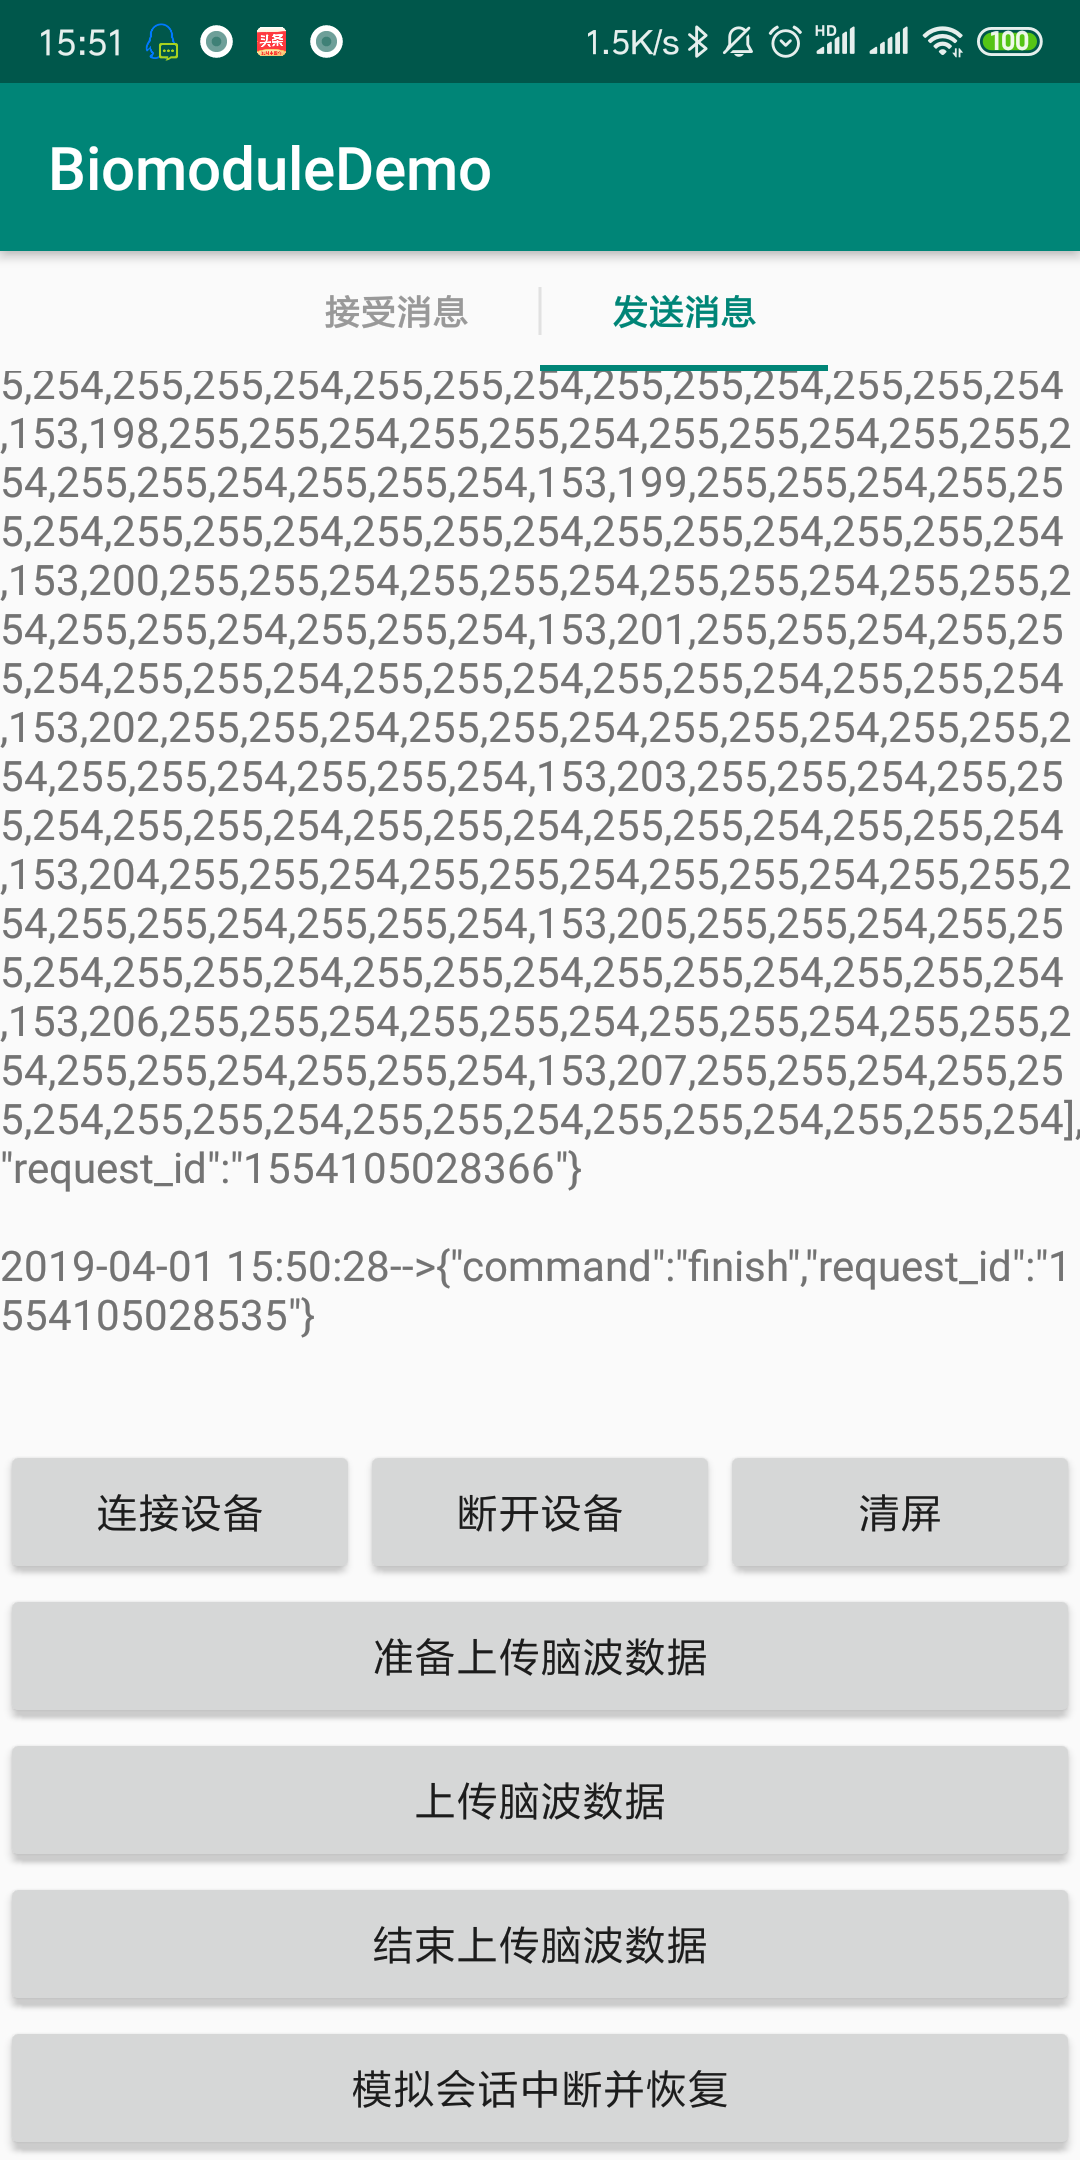
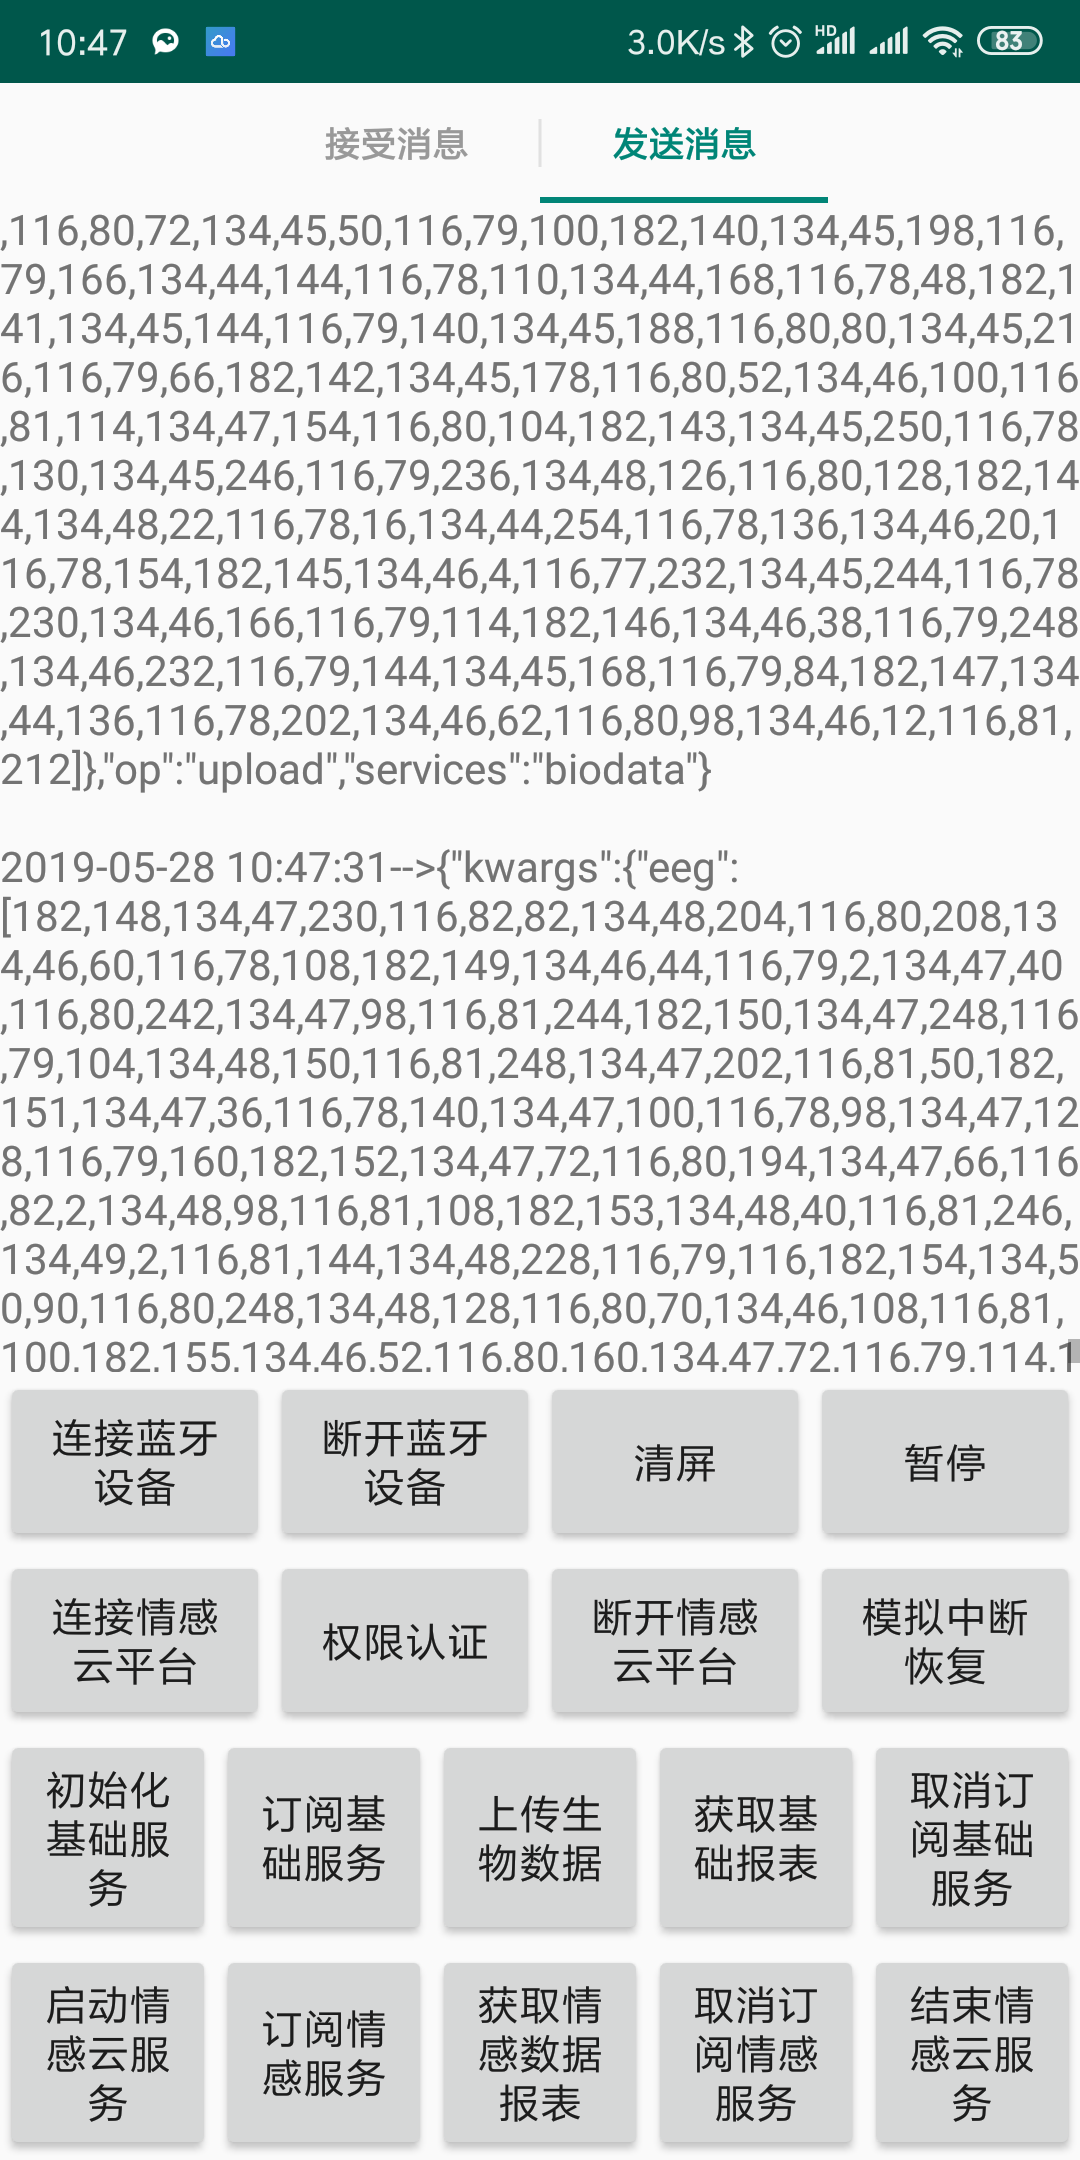
readme

diff --git a/app/src/main/java/cn/entertech/biomoduledemo/activity/MainActivity.kt b/app/src/main/java/cn/entertech/biomoduledemo/activity/MainActivity.kt
@@ -194,7 +194,7 @@ class MainActivity : AppCompatActivity() {
             return
         }
         var md5Params = "app_key=$APP_KEY&username=$USER_NAME&app_secret=$APP_SECRET"
-        sign = MD5Encode(md5Params)
+        sign = MD5Encode(md5Params).toUpperCase()
         var requestBodyMap = HashMap<Any, Any>()
         requestBodyMap["app_key"] = APP_KEY
         requestBodyMap["sign"] = sign

diff --git a/app/src/main/java/cn/entertech/biomoduledemo/utils/MD5Util.kt b/app/src/main/java/cn/entertech/biomoduledemo/utils/MD5Util.kt
@@ -23,7 +23,7 @@ fun MD5Encode(text:String):String{
             buf.append(Integer.toHexString(i))
         }
 
-        re_md5 = buf.toString().toUpperCase()
+        re_md5 = buf.toString()
 
     } catch (e: NoSuchAlgorithmException) {
         e.printStackTrace()

diff --git a/README.md b/README.md
@@ -12,11 +12,10 @@
 * 将采集数据通过 Socket 上传云端并接收分析结果。具体的 Socket 通信协议可查看[回车情感云平台长连接通信协议](https://github.com/Entertech/Enter-Biomodule-Demo-Android/wiki/%E5%9B%9E%E8%BD%A6%E6%83%85%E6%84%9F%E4%BA%91%E5%B9%B3%E5%8F%B0%E6%8E%A5%E5%8F%A3%E5%8D%8F%E8%AE%AE%EF%BC%88v0.2%EF%BC%89)。
 
 ## 操作
-* 打开Demo时，需点击`连接设备`进行设备蓝牙连接，此时设备需处于[广播状态](https://github.com/EnterTech/Enter-Biomodule-Demo-Android/wiki/回车生物电采集模块操作说明#连接指示灯)；
-* 连接设备后，点击 `准备上传脑波数据` 发送 `start` 命令到服务器开启一个会话；
-* 开启会话后可点击`上传脑波数据`进行脑波数据上传；
-* 点击`结束上传脑波数据`可结束当前会话。
-* 点击`模拟会话中断并恢复`可实现模拟socket中断并重新连接，重连后可进行接下来的操作（中断重连超时为5分钟）。
+* 打开Demo时，需点击`连接蓝牙设备`进行设备蓝牙连接，此时设备需处于[广播状态](https://github.com/EnterTech/Enter-Biomodule-Demo-Android/wiki/回车生物电采集模块操作说明#连接指示灯)；
+* 连接设备后，点击 `连接情感云平台` 、`权限认证`、`断开情感云平台`、`模拟中断恢复`进行Session操作；
+* 连接上情感云平台后可点击`初始化基础服务`、`订阅基础服务`、`上传生物数据`、`获取基础报表`、`取消订阅基础服务`进行基础服务操作；
+* 点击`启动情感云服务`、`订阅情感服务`、`获取情感数据报表`、`取消订阅情感服务`、`结束情感云服务`可进行情感云服务操作
 
 ## 界面交互和展示
 
